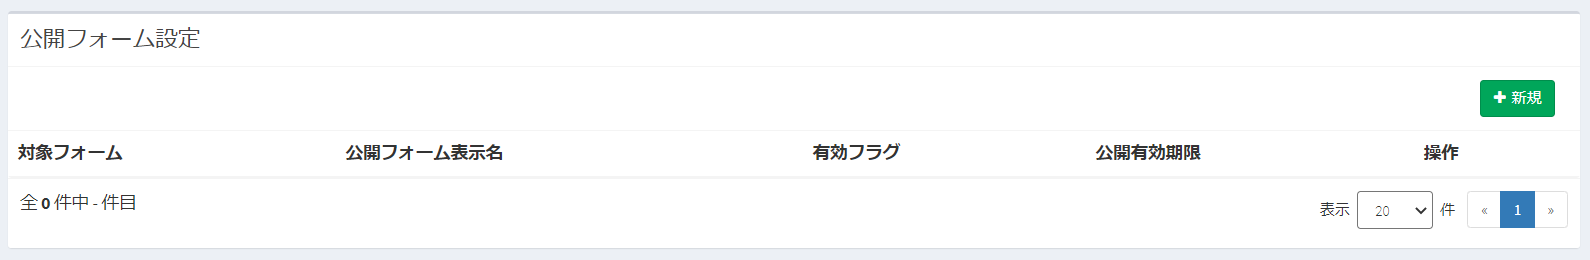
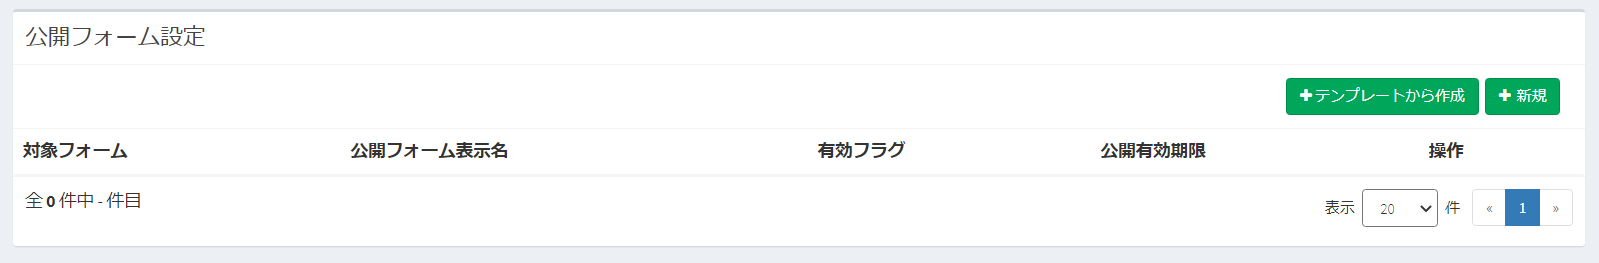
add publicform templete

diff --git a/docs/ja/publicform.md b/docs/ja/publicform.md
@@ -323,6 +323,31 @@ Google reCAPTCHAを使用する場合、YESにしてください。
 
 ![カスタムフォーム画面](img/form/public_form_error.png)
 
+### 7. テンプレートを利用
+テンプレートを利用することで、既に作成している公開フォームの設定値を引き継いで、新たな公開フォームを作成することができます。
+>次の項目に関しては、手動での設定が必要となります。<br />・ヘッダーロゴ<br />・Googleアナリティクス<br />・Google reCAPTCHAを使用する
+
+#### エクスポート
+公開フォーム設定画面に表示されている［テンプレート：エクスポート］をクリックすることで、開いている公開フォームがテンプレートとしてエクスポートされます。
+
+![カスタムフォーム画面](img/form/public_form_export.png)
+
+#### テンプレートから作成
+カスタムフォーム設定画面の公開フォーム設定にある［+テンプレートから作成］をクリックします。
+
+![カスタムフォーム画面](img/form/public_form_import.png)
+
+##### 対象フォーム
+テンプレートを用いて公開フォームを作成するにあたり、対象にするフォームを選択します。
+
+##### 公開フォーム表示名
+作成する公開フォームの画面表示名を入力します。
+
+##### アップロード
+公開フォームの作成に利用するテンプレートを選択します。
+
+![カスタムフォーム画面](img/form/public_form_import2.png)
+
 
 ## その他詳細設定
 
